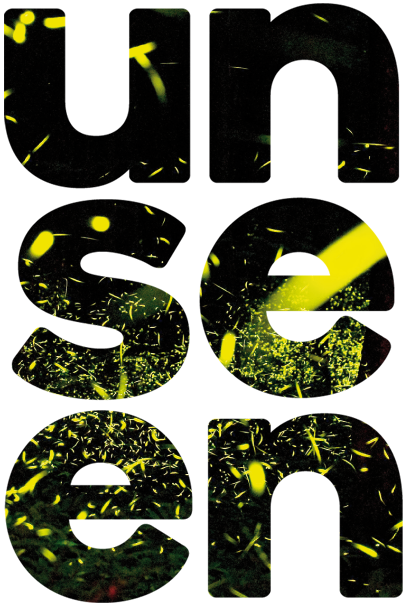
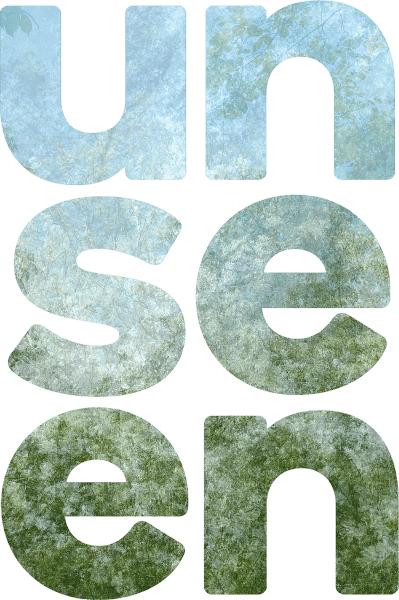
Updated the parallax images

diff --git a/app/assets/stylesheets/application.css b/app/assets/stylesheets/application.css
@@ -734,7 +734,9 @@ i.twitter_bird {
 a.home_small_title, a.home_small_title:hover {
   text-decoration: none;    
 }
-
+#fifth {
+	background-position:  50px -45px;
+}
 .home_box {
 	z-index: 0;
 	position: relative;
@@ -756,6 +758,12 @@ a.home_small_title, a.home_small_title:hover {
 }
 #intro {
 	margin-bottom: 0px;
+	background-position: 50% -185px;
+	position: relative;
+}
+#tenth {
+	background-position: 50% 201px;
+
 }
 .artist_name {
   display: block;
@@ -768,47 +776,50 @@ a.home_small_title, a.home_small_title:hover {
   background: url(/assets/artist_name_1.png) no-repeat 50%;
 }
 .home_bg_1 {
-  background: #211d1d url(/assets/home_bg_1.jpg) 50% 0 no-repeat fixed;
+  background: #3b421f url(/assets/home_bg_1.jpg) 50% 201px fixed;
 }
 .bg1 {
-  background: url(/assets/home_bg_inner_1.png) 50% 0 no-repeat fixed;
   width: 406px;
   height: 605px;
   margin: 0px auto;
+  position: absolute;
+  top: -100px;
+  left: 35%;
+  
 }
 
 .home_bg_2 {
-  background: #7c786f url(/assets/home_bg_4.jpg) 50% 0 no-repeat fixed;
+  background: #6cbbc2 url(/assets/home_bg_2.jpg) 50% 0 fixed;
 }
 .home_bg_2 .bg1 {
-   background-image: url(/assets/home_bg_inner_4.png);
+   background-image: url(/assets/home_bg_inner_2.png);
 }
 .home_bg_3 .bg1 {
-   background-image: url(/assets/home_bg_inner_6.png);
+   background-image: url(/assets/home_bg_inner_3.png);
 }
 .home_bg_4 .bg1 {
-   background-image: url(/assets/home_bg_inner_8.png);
+   background-image: url(/assets/home_bg_inner_4.png);
 }
 .home_bg_5 .bg1 {
-   background-image: url(/assets/home_bg_inner_10.png);
+   background-image: url(/assets/home_bg_inner_5.png);
 }
 .home_bg_2 .artist_name {
   background-image: url(/assets/artist_name_4.png);
 }
 .home_bg_3 {
-  background:#211d1d url(/assets/home_bg_6.jpg) 50% 0 no-repeat fixed;
+  background:#211d1d url(/assets/home_bg_3.jpg) 50% 0  fixed;
 }
 .home_bg_3 .artist_name {
   background-image: url(/assets/artist_name_6.png);
 }
 .home_bg_4 {
-  background:#b7cad9 url(/assets/home_bg_8.jpg) 50% 0 no-repeat fixed;
+  background: #638a8e url(/assets/home_bg_4.jpg) 50% 0 fixed;
 }
 .home_bg_4 .artist_name {
   background-image: url(/assets/artist_name_8.png);
 }
 .home_bg_5 {
-  background:#211d1d url(/assets/home_bg_10.jpg) 50% 0 no-repeat fixed;
+  background:#e2d3cb url(/assets/home_bg_5.jpg) 50% 0 fixed;
 }
 .home_bg_5 .artist_name {
   background-image: url(/assets/artist_name_10.png);
@@ -818,6 +829,8 @@ a.home_small_title, a.home_small_title:hover {
   margin-top: 100px;
   padding-top: 0px;
   z-index: 3;
+  background-position: 50% 87px;
+  
 }
 #second #latest_news .span3 {
   margin-bottom: 20px;
@@ -1042,6 +1055,7 @@ body .parallax-subnav {
   text-transform: uppercase;
   width: 100%;
   height: 64px;
+  position: relative;
   padding: 0px;
   background: url(/assets/white-smoke.png);
   margin: 83px 0 0 0;

diff --git a/app/assets/javascripts/core/nbw-parallax.js b/app/assets/javascripts/core/nbw-parallax.js
@@ -76,6 +76,18 @@ $(document).ready(function() { //when the document is ready...
 			inner_image.css({'backgroundPosition': newPos(50, windowHeight, pos, 1400, 1.4)});
 			
 		}
+    
+		//homepage first parallax
+		if($tenthBG.hasClass("inview")){
+			//call the newPos function and change the background position
+			$tenthBG.css({'backgroundPosition': newPos(50, windowHeight, pos, 1600, 0.3)}); 
+			inner_image.css({'backgroundPosition': newPos(50, windowHeight, pos, 1400, 1.4)});
+			
+		}
+    
+
+    
+    
 		
 		//if the second section is in view...
 		if($secondBG.hasClass("inview")){
@@ -123,10 +135,7 @@ $(document).ready(function() { //when the document is ready...
 		if($ninthBG.hasClass("inview")){
 		  // $ninthBG.css({'backgroundPosition': newPos(50, windowHeight, pos, 7250, 1.2)});
 		}				
-		//if the tenth section is in view...
-		if($tenthBG.hasClass("inview")){
-			$tenthBG.css({'backgroundPosition': newPos(50, windowHeight, pos, 7250, 0.2)});
-		}				
+	
 		
 			
 		$('#pixels').html(pos); //display the number of pixels scrolled at the bottom of the page
